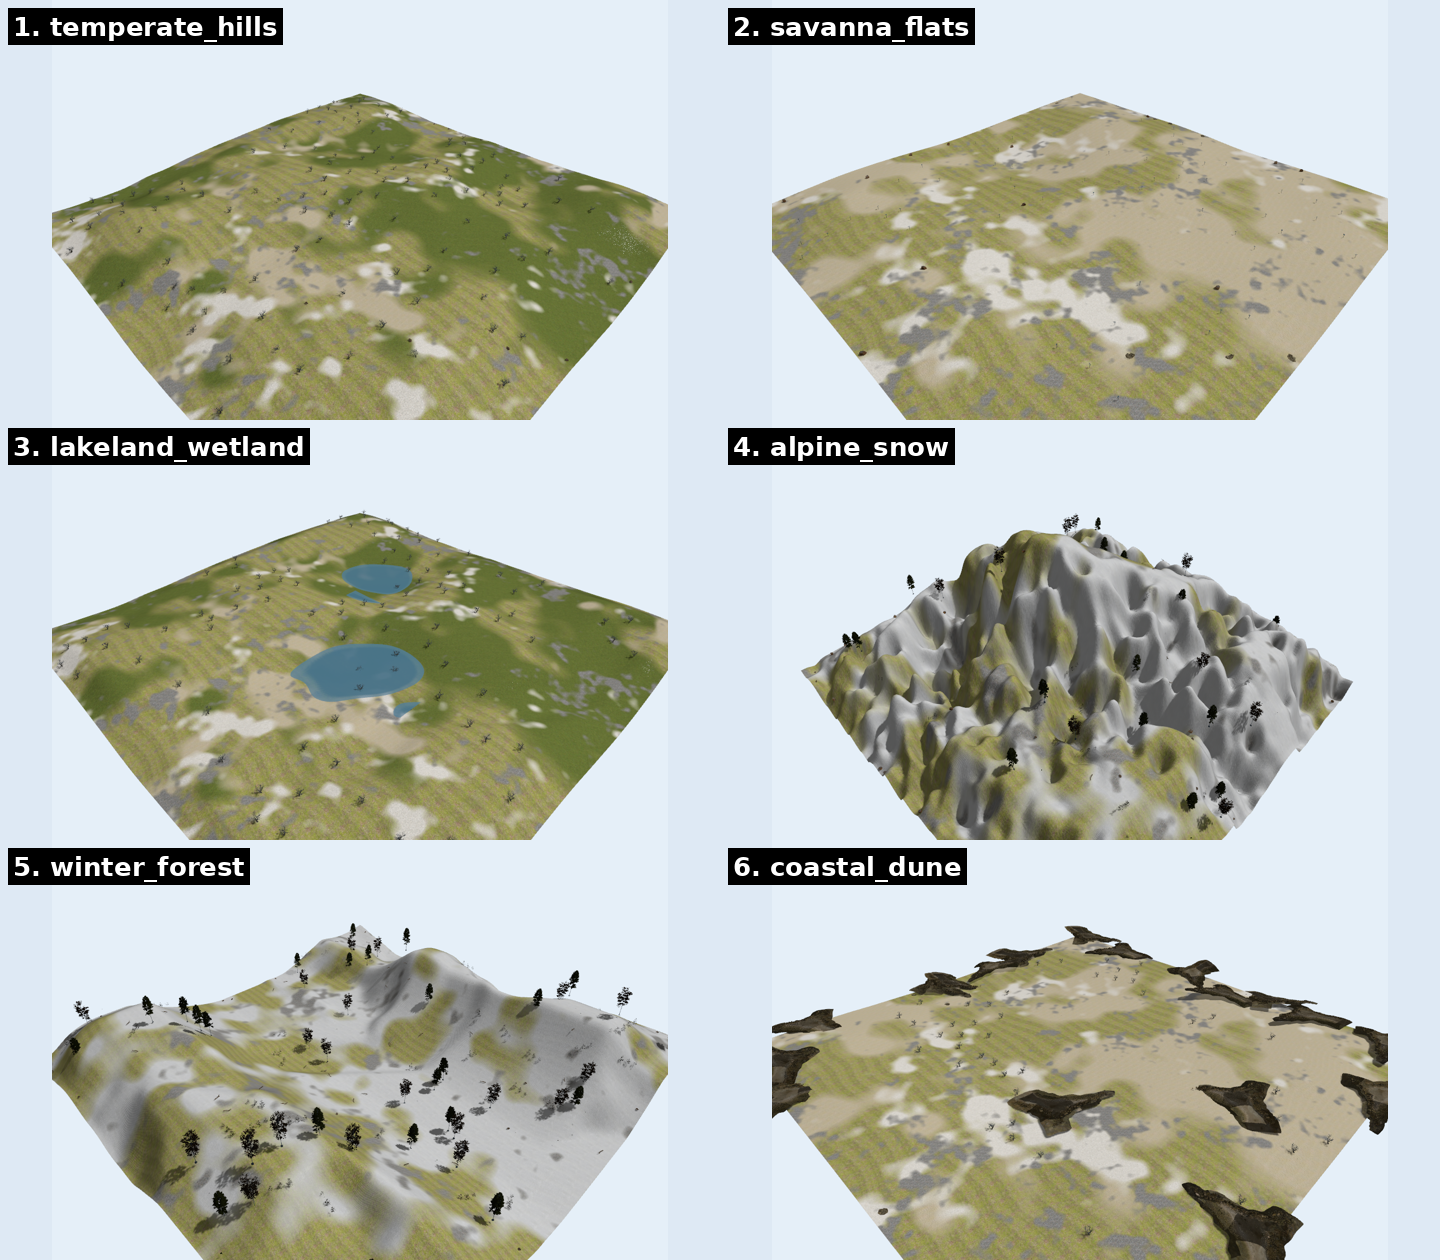
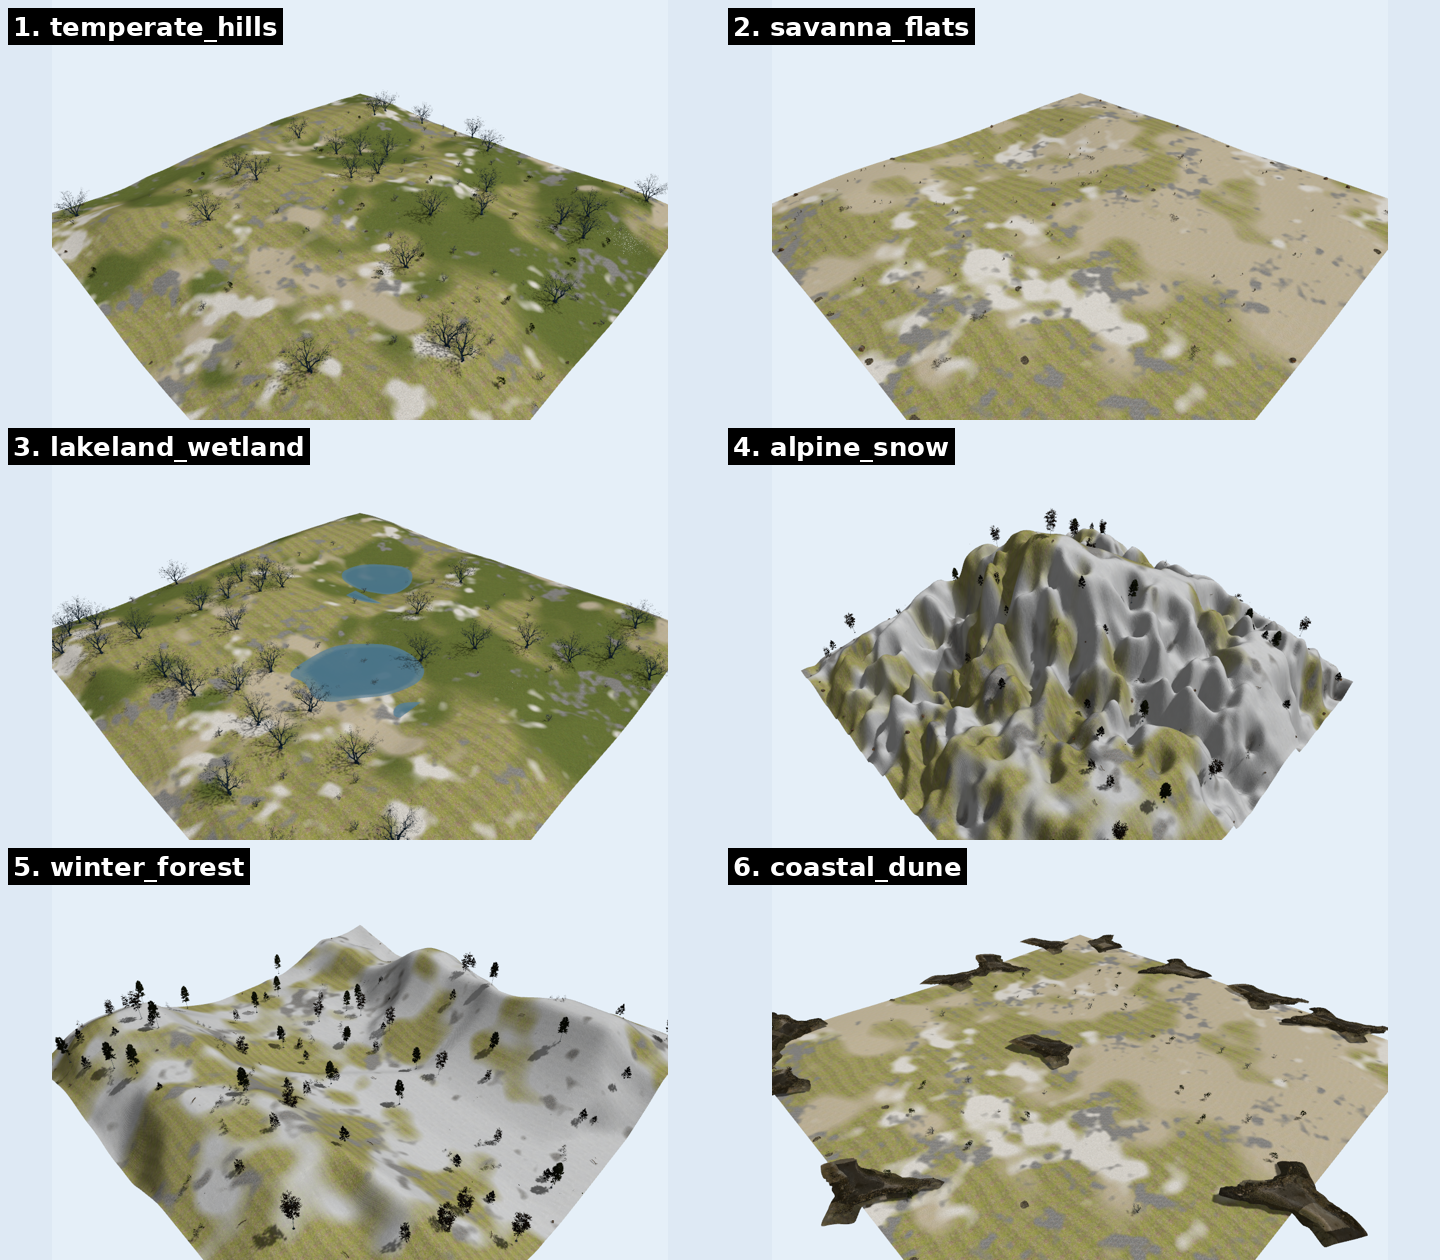
validate: demos rebuilt with the variety set — coverage 0.77->0.85, FAST/MP 59%->64%
Full 6-demo rebuild + compare.py after the species harvest and RNG hardening:

  temperate 0.77->0.95 | savanna 0.80->0.88 | lakeland 0.84->0.92
  alpine    0.50->0.92 | winter  0.92->0.98 | coastal  0.69->0.64
  comparable mean coverage 0.85 (gate: no regression below 0.77 — PASS)
  FAST/MP 13435->14566 = 64% of the originals (was 59%) — the CC0 ceiling
  moved with variety, as the V2 report predicted. Alpine's 'biome-inherent'
  0.50 was actually an asset-variety ceiling: saplings + debris now fill the
  bare snow slope.

Honest flags (docs/baseline_metrics.md): coastal cov dipped 0.05 (new
placement draw put only 6 trees near the hero cam); savanna hero-cam tilePk
0.31->0.49 (grazing-angle bare-sand ripple under the new framing; top-down
0.25 — the fine asset tile stays broken, Phase B's structural fix untouched).

Master-seed diversity proof: tools/scenario_gallery.py renders 3 scenario
worlds (seeds 101/107/108 -> wetland+2 lakes / temperate hilly / alpine
massif) into tools/scenario_seeds_gallery.png. Determinism re-verified after
the RNG change: scenario --seed 107 twice -> byte-identical world.

Docs: README + docs/SCENARIOS.md document forest3d scenario (master seed ->
per-stage seeds, envelopes, scenario.yaml recipe); baseline_metrics.md gets
the before/after table; tools/README.md indexes scenario_gallery.py.

diff --git a/tools/scenario_gallery.py b/tools/scenario_gallery.py
@@ -1,0 +1,97 @@
+"""Build + render N master-seed scenarios into a diversity gallery.
+
+Proves `forest3d scenario --seed N` end-to-end: each seed yields a different
+biome/landform/population, each world renders from its hero + oblique cams.
+Runs inside forest3d:egl with --gpus all (same harness as build_scenarios.py).
+
+  python3 tools/scenario_gallery.py [seed ...]      # default: 101 107 108
+
+Output: frames/seed_<n>_{hero,oblique}.npy and tools/scenario_seeds_gallery.png.
+"""
+import os
+import shutil
+import subprocess
+import sys
+
+import numpy as np
+import yaml
+from PIL import Image, ImageDraw, ImageFont
+
+WS = "/workspace"
+CLI = ["python3", "-m", "forest3d.cli.main"]
+SEEDS = [int(a) for a in sys.argv[1:]] or [101, 107, 108]
+
+
+def run(cmd, **kw):
+    p = subprocess.run(cmd, capture_output=True, text=True, **kw)
+    if p.returncode != 0:
+        sys.stdout.write(p.stdout[-2000:])
+        sys.stderr.write(p.stderr[-2000:])
+        raise SystemExit(f"FAILED: {' '.join(cmd)}")
+    return p
+
+
+def render(tag, water):
+    env = dict(os.environ, FOREST="1", **({"WATER": "1"} if water else {}))
+    run(["python3", f"{WS}/tools/terrain_scene.py"], env=env)
+    g = subprocess.Popen(["gz", "sim", "-s", "-r", "--headless-rendering",
+                          f"{WS}/worlds/terrain_scene.world"],
+                         stdout=open(f"{WS}/frames/gz_{tag}.log", "w"),
+                         stderr=subprocess.STDOUT)
+    try:
+        subprocess.run(["python3", f"{WS}/tools/capture_cams.py", "cam_hero,cam_oblique"],
+                       timeout=120)
+    finally:
+        g.terminate()
+        try:
+            g.wait(timeout=10)
+        except subprocess.TimeoutExpired:
+            g.kill()
+    for c in ("cam_hero", "cam_oblique"):
+        src = f"{WS}/frames/{c}.npy"
+        if os.path.exists(src):
+            shutil.copy(src, f"{WS}/frames/seed_{tag}_{c.split('_')[1]}.npy")
+
+
+specs = []
+for seed in SEEDS:
+    print(f"=== scenario --seed {seed} ===", flush=True)
+    run(CLI + ["scenario", "--seed", str(seed)], cwd=WS)
+    spec = yaml.safe_load(open(f"{WS}/worlds/scenario_{seed}.yaml"))
+    specs.append(spec)
+    # terrain_scene grafts from forest_world.world; point it at this scenario
+    shutil.copy(f"{WS}/worlds/scenario_{seed}.world", f"{WS}/worlds/forest_world.world")
+    render(str(seed), water=spec["outputs"]["lakes"] > 0)
+
+# compose gallery: rows = seeds, cols = hero | oblique
+tiles, W, H = [], 900, 560
+for spec in specs:
+    seed = spec["seed"]
+    row = []
+    for cam in ("hero", "oblique"):
+        f = f"{WS}/frames/seed_{seed}_{cam}.npy"
+        img = Image.fromarray(np.load(f)) if os.path.exists(f) else Image.new("RGB", (W, H), (30, 30, 30))
+        row.append(img.resize((W, H)))
+    tiles.append((seed, spec, row))
+
+try:
+    font = ImageFont.truetype("/usr/share/fonts/truetype/dejavu/DejaVuSans-Bold.ttf", 26)
+except OSError:
+    font = ImageFont.load_default()
+LBL = 44
+sheet = Image.new("RGB", (2 * W, len(tiles) * (H + LBL)), (16, 20, 26))
+d = ImageDraw.Draw(sheet)
+for i, (seed, spec, row) in enumerate(tiles):
+    y = i * (H + LBL)
+    dens = spec["density"]
+    d.text((12, y + 9),
+           f"--seed {seed}  ->  {spec['biome']} / {spec['preset']}   "
+           f"trees {dens['tree']}  bush {dens['bush']}  grass {dens['grass']}  "
+           f"rocks {dens['rock']}" + (f"   lakes {spec['outputs']['lakes']}"
+                                      if spec['outputs']['lakes'] else ""),
+           fill=(235, 240, 245), font=font)
+    for j, img in enumerate(row):
+        sheet.paste(img, (j * W, y + LBL))
+out = f"{WS}/tools/scenario_seeds_gallery.png"
+sheet.save(out)
+print(f"wrote {out}", flush=True)

diff --git a/docs/baseline_metrics.md b/docs/baseline_metrics.md
@@ -264,3 +264,39 @@ coverage is biome-inherent.
 - **Under-population (coverage 0.56 vs 0.99)** — OPEN, the Phase C headline.
 - **DEM-mesh faceting** in the top-down autocorr cross — accepted (geometry, nadir-only;
   oblique robot cameras unaffected). Not chased further.
+
+## Variety harvest + master-seed scenarios (2026-07-03) — post-DEMO_REALISM_V2
+
+The 6 demos were rebuilt end-to-end after (a) the **15-species variety harvest**
+(every biome ≥3 trees + ≥2 understory; `tools/ASSET_REGISTRY.md`) and (b) the
+placement RNG hardening (instance `np.random.Generator` + sorted listings — the
+seed→world mapping changed once here, by design). Same harness (`tools/compare.py`):
+
+| scene            | cov (was → now) | FAST/MP (was → now) | tilePk (was → now) |
+|------------------|-----------------|---------------------|--------------------|
+| temperate_hills  | 0.77 → **0.95** | 17253 → 19377       | 0.115 → 0.099      |
+| savanna_flats    | 0.80 → **0.88** | 11127 → 12030       | 0.311 → **0.491**  |
+| lakeland_wetland | 0.84 → **0.92** | 17378 → 19017       | 0.144 → 0.068      |
+| alpine_snow      | 0.50 → **0.92** | 10825 → 11574       | 0.056 → 0.098      |
+| winter_forest    | 0.92 → **0.98** | 16589 → 17873       | 0.085 → 0.055      |
+| coastal_dune     | 0.69 → 0.64     | 7983 → 7841         | 0.310 → 0.191      |
+| **comparable mean** | **0.77 → 0.85** (orig 0.99) | **13435 → 14566 = 64 %** (orig 22874, was 59 %) | 0.220 → 0.212 (orig 0.084) |
+
+- **Coverage gate (no regression below 0.77): PASS at 0.85.** Biggest movers are the
+  biomes that got real understory/species depth: alpine 0.50→0.92 (saplings + debris
+  fill the bare snow slope — the previous "biome-inherent" ceiling was actually an
+  asset-variety ceiling), temperate 0.77→0.95.
+- **FAST/MP improves 59 %→64 %** of the originals — the CC0 ceiling moves with variety,
+  as predicted by the V2 report.
+- **Honest flags:** `coastal_dune` coverage dipped 0.69→0.64 (new placement draw put
+  fewer trees near the hero cam: 6 within 55 m); `savanna_flats` hero-cam tilePk rose
+  0.311→0.491 at a 62 px period (grazing-angle bare-sand ripple with the new framing;
+  its top-down tilePk is 0.249, i.e. the fine ~4–7 m asset tile stays broken — Phase B's
+  structural fix is untouched). Both are placement-draw sensitivity, not asset or
+  pipeline regressions; both scenes remain above / near their pre-harvest FAST density.
+
+Reproducibility spot-checks in the same container session: `forest3d scenario
+--seed 42` twice → byte-identical world + spec (625/625 models, 2 water basins);
+re-verified after the RNG hardening with `--seed 107` (DETERMINISM_HOLDS). The 3-seed
+diversity proof is `tools/scenario_seeds_gallery.png` (seeds 101/107/108 →
+wetland/temperate/alpine).

diff --git a/docs/SCENARIOS.md b/docs/SCENARIOS.md
@@ -20,6 +20,30 @@ python3 tools/build_scenarios.py    # writes tools/scenarios_gallery.png + _over
 and writes `assets/manifest.lock.yaml` with each source's sha256. All assets are CC0
 (Poly Haven, https://polyhaven.com) — see `tools/ASSET_REGISTRY.md` for full credits.
 
+## One-command randomized worlds (`forest3d scenario`)
+
+For VIO/LIO test campaigns you usually want *many* varied worlds, not the six
+fixed demos. `forest3d scenario` generates a complete world from **one master
+seed**: it derives per-stage seeds (`SeedSequence.spawn`), draws the biome,
+terrain preset/knobs and densities from per-biome envelopes (the ranges the six
+demos were tuned in — see `BIOME_SPACE` in `src/forest3d/core/scenario.py`), runs
+`terraingen → terrain → ground → generate` (plus per-basin water when the biome
+calls for it), and constrains species to the biome's palette from
+`assets/manifest.yaml`.
+
+```bash
+forest3d scenario --seed 42                      # random biome + everything else
+forest3d scenario --seed 42 --biome alpine       # fix the biome, randomize the rest
+forest3d scenario --seed 7  --density-scale 0.5  # sparse variant of seed 7
+forest3d scenario --seed 7  --dry-run            # inspect the recipe, build nothing
+```
+
+Outputs: `worlds/scenario_<seed>.world` plus `worlds/scenario_<seed>.yaml` — the
+latter records every resolved parameter (stage seeds, knobs, densities, palette),
+so a failing VIO run can name the exact world it saw and anyone can regenerate it
+byte-identically from the seed. The mapping seed→world is stable within a
+`scenario_format` version (bumped if the envelopes or draw order ever change).
+
 ## Adjusting density (trees, rocks, bushes, grass)
 
 Density is the main knob and is fully user-tunable. Each scenario sets per-category

diff --git a/README.md b/README.md
@@ -66,7 +66,22 @@ forest3d launch
 
 Beyond meshing a fixed DEM, Forest3D can **synthesize** varied, seeded landforms —
 rolling hills, mountains, valleys, flatlands, basins→lakes, creeks — and randomize
-whole scenarios reproducibly (same `--seed` → same world) for VIO/lidar testing:
+whole scenarios reproducibly (same `--seed` → same world) for VIO/lidar testing.
+
+**One command, one master seed** — `forest3d scenario` chains every stage
+(landform → mesh → ground material → water → model placement), deriving each
+stage's seed from the master seed and drawing the biome, terrain shape and
+densities from per-biome envelopes. The full resolved recipe is written to
+`worlds/scenario_<seed>.yaml`, so any world reproduces from its seed alone:
+
+```bash
+forest3d scenario --seed 42                      # fully random, byte-reproducible
+forest3d scenario --seed 42 --biome alpine       # fix the biome, randomize the rest
+forest3d scenario --seed 7  --density-scale 1.5  # denser variant of seed 7
+forest3d scenario --seed 7  --dry-run            # print the resolved recipe only
+```
+
+The individual stages remain available for manual control:
 
 ```bash
 forest3d terraingen --preset lakeland --seed 7 -o dem/synth.tif   # synth landform

diff --git a/tools/README.md b/tools/README.md
@@ -31,6 +31,7 @@ docker run --rm --gpus all -e NVIDIA_DRIVER_CAPABILITIES=all -e PYTHONPATH=/work
 | `compare.py` | Image-level metric harness: ORB/FAST per-MP, 8×8 coverage, tiling autocorrelation, vs the 3 reference screenshots. Emits `compare.png` + a markdown table. Needs `opencv-python-headless` (in `:egl`). |
 | `quickmetric.py` | Fast single-scene readout (`python3 tools/quickmetric.py savanna_flats`). |
 | `regen_galleries.py` | Rebuilds the 6-panel `scenarios_gallery.png` / `scenarios_overview.png` from frames on disk — use after a single-scene `FOREST_SCN=` build. |
+| `scenario_gallery.py` | Builds + renders N `forest3d scenario --seed` worlds (default 101/107/108) → `scenario_seeds_gallery.png`, the master-seed diversity proof. |
 
 ## Catalog & diagnostics
 